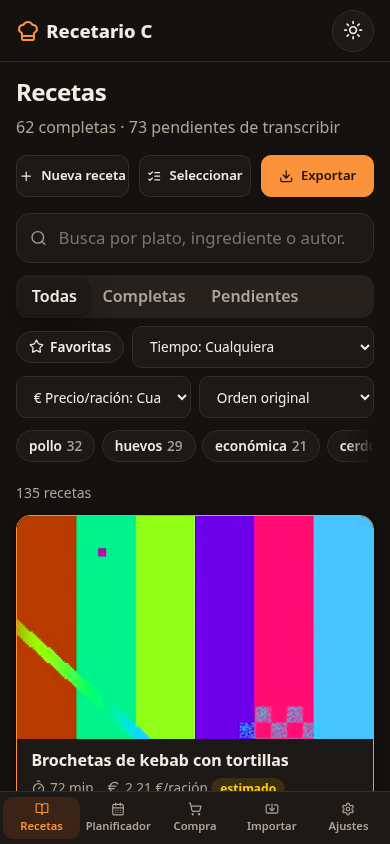
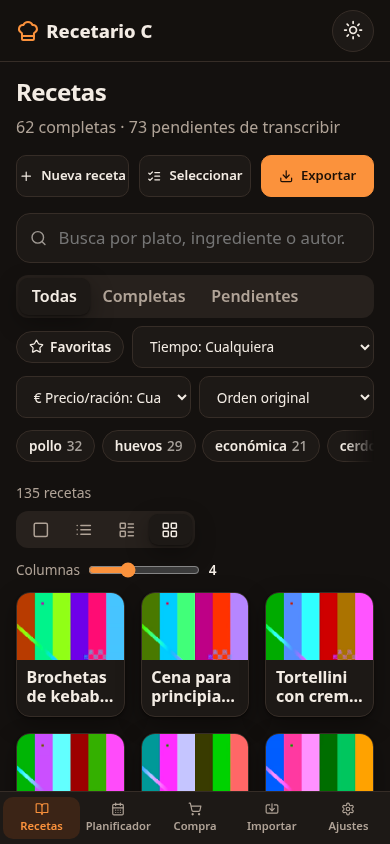
feat(ui): list view selector and source-aware 'Ver original' links

Changed region(s): [[0.0308, 0.5853, 0.9846, 0.955]]

diff --git a/static/assets/app.js b/static/assets/app.js
@@ -114,7 +114,7 @@ async function viewList() {
     </div>
     <div class="scroller" role="group" aria-label="${t("tags")}">${tags.map(x => `<button type="button" class="chip" data-tag="${esc(x.etiqueta)}" aria-pressed="${F.etiqueta === x.etiqueta}">${esc(x.etiqueta)} <span class="n">${x.total}</span></button>`).join("")}</div>
   </div>
-  <p class="muted small" id="count" aria-live="polite"></p>
+  <div class="listbar"><p class="muted small" id="count" aria-live="polite"></p>${viewPicker()}</div>
   <div id="results" class="grid"></div>
   <div id="selbar"></div>`;
   const reload = () => { sessionStorage.setItem("filtros", JSON.stringify(F)); loadResults(); };
@@ -127,29 +127,103 @@ async function viewList() {
   $("#ord").onchange = e => { F.orden = e.target.value; reload(); };
   $("#selBtn").onclick = () => { selecting = !selecting; if (!selecting) selected.clear(); $("#selBtn").setAttribute("aria-pressed", selecting); renderResults(); };
   $("#expBtn") && ($("#expBtn").onclick = () => exportDialog());
+  bindViewPicker();
   await loadResults();
+  API.prefsLista().then(p => { if (p && (p.vista !== VIEW.vista || p.densidad !== VIEW.densidad)) { setView(p, false); } }).catch(() => {});
 }
 async function loadResults() {
   lastResults = await API.recipes(F);
   renderResults();
 }
+/* ---- list view modes: una | info | detalle | cuadricula (+ density 2..8 columns) */
+const VIEWS = [["una", "Una sola", "square"], ["info", "Con info", "list"], ["detalle", "Muy detallado", "layout-list"], ["cuadricula", "Cuadrícula", "layout-grid"]];
+let VIEW = (() => { try { const v = JSON.parse(localStorage.getItem("vistaLista") || "null"); if (v && VIEWS.some(x => x[0] === v.vista)) return { vista: v.vista, densidad: Math.min(8, Math.max(2, +v.densidad || 4)) }; } catch {} return { vista: "cuadricula", densidad: 4 }; })();
+let viewSaveT;
+function viewPicker() {
+  return `<div class="viewpick"><div role="radiogroup" aria-label="Vista de la lista" class="seg vseg">${VIEWS.map(([v, l, i]) =>
+    `<button type="button" role="radio" data-view="${v}" aria-checked="${VIEW.vista === v}" tabindex="${VIEW.vista === v ? 0 : -1}" title="${l}">${ic(i)}<span class="vlabel">${l}</span></button>`).join("")}</div>
+    <label class="dens" ${VIEW.vista === "cuadricula" ? "" : "hidden"}><span>Columnas</span><input id="densR" type="range" min="2" max="8" step="1" value="${VIEW.densidad}" aria-valuetext="${VIEW.densidad} columnas"><output id="densO">${VIEW.densidad}</output></label></div>`;
+}
+function setView(p, save = true) {
+  VIEW = { vista: p.vista ?? VIEW.vista, densidad: p.densidad ?? VIEW.densidad };
+  localStorage.setItem("vistaLista", JSON.stringify(VIEW));
+  $$("[data-view]").forEach(b => { const on = b.dataset.view === VIEW.vista; b.setAttribute("aria-checked", on); b.tabIndex = on ? 0 : -1; });
+  const d = $(".dens"); if (d) d.hidden = VIEW.vista !== "cuadricula";
+  const r = $("#densR"); if (r) { r.value = VIEW.densidad; r.setAttribute("aria-valuetext", VIEW.densidad + " columnas"); $("#densO").textContent = VIEW.densidad; }
+  renderResults();
+  if (save) { clearTimeout(viewSaveT); viewSaveT = setTimeout(() => API.setPrefsLista(VIEW).catch(() => {}), 300); }
+}
+function bindViewPicker() {
+  const btns = $$("[data-view]");
+  btns.forEach((b, i) => {
+    b.onclick = () => setView({ vista: b.dataset.view });
+    b.onkeydown = e => {
+      const k = { ArrowRight: 1, ArrowDown: 1, ArrowLeft: -1, ArrowUp: -1 }[e.key];
+      let j = k ? (i + k + btns.length) % btns.length : e.key === "Home" ? 0 : e.key === "End" ? btns.length - 1 : -1;
+      if (j < 0) return; e.preventDefault(); setView({ vista: btns[j].dataset.view }); btns[j].focus();
+    };
+  });
+  const r = $("#densR"); if (r) r.oninput = () => setView({ densidad: +r.value });
+}
+const SRC_LABEL = { instagram: "Instagram", tiktok: "TikTok", youtube: "YouTube", pinterest: "Pinterest", facebook: "Facebook", x: "X", web: "la web" };
+const SRC_ICON = { instagram: "instagram", tiktok: "tiktok", youtube: "youtube", pinterest: "pinterest", facebook: "facebook", x: "x", web: "globe" };
+function sourceLink(r, cls = "") {
+  if (!r.source_url) return "";
+  const name = SRC_LABEL[r.source_type] || "la web";
+  return `<a class="srclink ${cls}" href="${esc(r.source_url)}" target="_blank" rel="noopener noreferrer" aria-label="Ver original en ${esc(name)} (se abre en otra pestaña)">${ic(SRC_ICON[r.source_type] || "link")}<span>Ver original</span></a>`;
+}
+const PHASES = [["Preparación", /\b(cort|pic|pel|mezcl|bat|ralla|lav|añad|sazon|prepar|amas|forma|monta|unt)/i], ["Reposo", /\b(repos|enfr|refriger|marin|dej[ae] (que )?(repos|enfri|levant)|congel|nevera)/i], ["Cocción", /\b(horne|horno|fr[ií]e|cuec|coce|cocin|sofr[ií]|saltea|dora|hierv|asa|gratin|tuesta|hornea|sart[eé]n|airfryer|freidora)/i]];
+function phaseTimes(r) {
+  const acc = {};
+  (r.pasos || []).forEach(p => { if (!p.minutos) return; const t = p.texto || ""; const f = (PHASES.find(([, rx]) => rx.test(t)) || ["Otros"])[0]; acc[f] = (acc[f] || 0) + p.minutos; });
+  return ["Preparación", "Cocción", "Reposo", "Otros"].filter(k => acc[k]).map(k => `${k} ${acc[k]} min`);
+}
+function mainIngredients(r, n = 5) {
+  return [...(r.ingredientes || [])].filter(i => i.nombre).sort((a, b) => (b.precio_eur || 0) - (a.precio_eur || 0)).slice(0, n).map(i => i.nombre);
+}
+const fdate = s => { const d = s ? new Date(s) : null; return d && !isNaN(d) ? d.toLocaleDateString("es-ES", { day: "numeric", month: "short", year: "numeric" }) : ""; };
 function card(r) {
-  const src = r.portada || r.media?.foto;
-  const img = src ? `<img src="${esc(src)}" alt="" loading="lazy" onerror="this.remove()">` : "";
+  if (VIEW.vista === "una") return cardWide(r, false);
+  if (VIEW.vista === "info") return cardInfo(r);
+  if (VIEW.vista === "detalle") return cardWide(r, true);
+  return cardGrid(r);
+}
+function selBox(r) { return selecting ? `<input type="checkbox" class="sel" data-sel="${r.id}" aria-label="Seleccionar ${esc(r.titulo)}" ${selected.has(r.id) ? "checked" : ""}>` : ""; }
+function thumbHtml(r) { const src = r.portada || r.media?.foto; return `<div class="thumb" aria-hidden="true">${placeholder(r)}${src ? `<img src="${esc(src)}" alt="" loading="lazy" onerror="this.remove()">` : ""}</div>`; }
+function cardGrid(r) {
+  return `<article class="card vgrid ${r.estado !== "completa" ? "pending" : ""}">${selBox(r)}${r.favorito ? `<span class="fav">${ic("star", "Favorita", "fill")}</span>` : ""}
+    <a href="#/receta/${r.id}" class="cardlink">${thumbHtml(r)}<div class="body"><h3>${esc(r.titulo)}</h3></div></a></article>`;
+}
+function cardInfo(r) {
   const pend = r.estado !== "completa";
-  return `<article class="card ${pend ? "pending" : ""}">
-    ${selecting ? `<input type="checkbox" class="sel" data-sel="${r.id}" aria-label="Seleccionar ${esc(r.titulo)}" ${selected.has(r.id) ? "checked" : ""}>` : ""}
-    ${r.favorito ? `<span class="fav">${ic("star", "Favorita", "fill")}</span>` : ""}
-    <a href="#/receta/${r.id}" style="color:inherit;text-decoration:none;display:flex;flex-direction:column;flex:1">
-      <div class="thumb" aria-hidden="true">${placeholder(r)}${img}</div>
-      <div class="body">
-        <h3>${esc(r.titulo)}</h3>
-        <div class="meta">${pend ? `<span class="badge pend">Pendiente de transcribir</span>` : `
-          ${r.tiempo_total_min ? `<span>${ic("timer")} ${r.tiempo_total_min} min</span>` : ""}
-          ${r.precio_racion_eur != null ? `<span>${ic("euro")} ${eur(r.precio_racion_eur)}/ración <span class="badge est">${t("est")}</span></span>` : ""}`}
-        </div>
-        <div class="meta"><span>${esc(r.autor || "")}</span>${r.valoracion ? `<span class="stars-ro">${ic("star", r.valoracion + " de 5 estrellas", "fill")}${r.valoracion}</span>` : ""}${r.media?.video ? `<span>${ic("film", "Con vídeo")}</span>` : ""}</div>
-      </div></a></article>`;
+  const bits = pend ? [`<span class="badge pend">Pendiente de transcribir</span>`] : [
+    r.tiempo_total_min ? `<span>${ic("timer")} ${r.tiempo_total_min} min</span>` : "",
+    r.raciones ? `<span>${ic("users")} ${r.raciones} rac.</span>` : "",
+    r.precio_racion_eur != null ? `<span>${ic("euro")} ${eur(r.precio_racion_eur)}/rac. <span class="badge est">${t("est")}</span></span>` : ""].filter(Boolean);
+  return `<article class="card vinfo ${pend ? "pending" : ""}">${selBox(r)}
+    <a href="#/receta/${r.id}" class="cardlink">${thumbHtml(r)}<div class="body"><h3>${esc(r.titulo)}${r.favorito ? ` ${ic("star", "Favorita", "fill")}` : ""}</h3>${bits.length ? `<div class="meta">${bits.join("")}</div>` : ""}</div></a></article>`;
+}
+function cardWide(r, detailed) {
+  const pend = r.estado !== "completa";
+  const meta = pend ? [`<span class="badge pend">Pendiente de transcribir</span>`] : [
+    r.tiempo_total_min ? `<span>${ic("timer")} ${r.tiempo_total_min} min</span>` : "",
+    r.raciones ? `<span>${ic("users")} ${r.raciones} raciones</span>` : "",
+    r.precio_racion_eur != null ? `<span>${ic("euro")} ${eur(r.precio_racion_eur)}/ración <span class="badge est">${t("est")}</span></span>` : ""].filter(Boolean);
+  let extra = "";
+  if (detailed) {
+    const ings = mainIngredients(r), ph = phaseTimes(r), tags = r.etiquetas || [], fecha = fdate(r.creado);
+    const rows = [
+      ings.length ? `<div><dt>Ingredientes principales</dt><dd>${ings.map(esc).join(", ")}</dd></div>` : "",
+      ph.length ? `<div><dt>Tiempo por fase</dt><dd>${ph.join(" · ")}</dd></div>` : "",
+      r.precio_total_eur != null || r.precio_racion_eur != null ? `<div><dt>Coste estimado</dt><dd>${[r.precio_total_eur != null ? `${eur(r.precio_total_eur)} total` : "", r.precio_racion_eur != null ? `${eur(r.precio_racion_eur)}/ración` : ""].filter(Boolean).join(" · ")}</dd></div>` : "",
+      r.autor ? `<div><dt>Fuente</dt><dd>${esc(r.autor)}</dd></div>` : "",
+      fecha ? `<div><dt>Añadida</dt><dd>${fecha}</dd></div>` : ""].filter(Boolean);
+    extra = (rows.length ? `<dl class="facts">${rows.join("")}</dl>` : "") + (tags.length ? `<div class="tags">${tags.map(x => `<span class="chip small">${esc(x)}</span>`).join("")}</div>` : "");
+  }
+  return `<article class="card ${detailed ? "vdet" : "vuna"} ${pend ? "pending" : ""}">${selBox(r)}${r.favorito ? `<span class="fav">${ic("star", "Favorita", "fill")}</span>` : ""}
+    <a href="#/receta/${r.id}" class="cardlink">${thumbHtml(r)}<div class="body"><h3>${esc(r.titulo)}</h3>
+      ${meta.length ? `<div class="meta">${meta.join("")}</div>` : ""}${!detailed && r.autor ? `<div class="meta"><span>${esc(r.autor)}</span></div>` : ""}${extra}</div></a>
+    ${detailed && r.source_url ? `<div class="cardfoot">${sourceLink(r)}</div>` : ""}</article>`;
 }
 function renderResults() {
   const box = $("#results"); if (!box) return;
@@ -159,6 +233,7 @@ function renderResults() {
       <button class="btn" type="button" id="clearF">${t("clear")}</button></div>`;
     $("#clearF").onclick = () => { Object.assign(F, { q: "", estado: "", favoritos: false, etiqueta: "", max_min: "", max_precio: "" }); sessionStorage.removeItem("filtros"); viewList(); };
   } else box.innerHTML = lastResults.map(card).join("");
+  box.className = `grid v-${VIEW.vista}`; box.style.setProperty("--cols", VIEW.densidad);
   $$("[data-sel]").forEach(c => c.onchange = () => { const id = +c.dataset.sel; c.checked ? selected.add(id) : selected.delete(id); renderSelbar(); });
   renderSelbar();
 }
@@ -207,8 +282,8 @@ function exportDialog(pre) {
 
 /* =========================================================== DETAIL */
 function videoFrame(r) {
-  const ig = r.video_url || (r.shortcode ? `https://www.instagram.com/reel/${r.shortcode}/` : "");
-  const link = ig ? `<p class="iglink"><a href="${esc(ig)}" target="_blank" rel="noopener">Ver publicación original en Instagram ${ic("external-link")}</a></p>` : "";
+  const sl = sourceLink(r);
+  const link = sl ? `<p class="iglink">${sl}</p>` : "";
   if (r.media?.video) return `<div class="vf"><video src="${esc(r.media.video)}" controls playsinline preload="metadata" ${r.portada ? `poster="${esc(r.portada)}"` : ""}></video></div>${link}`;
   const code = r.shortcode;
   if (!code || API.STATIC) return (r.media?.foto ? `<img class="photo" src="${esc(r.media.foto)}" alt="">` : "") + link;

diff --git a/static/assets/style.css b/static/assets/style.css
@@ -245,7 +245,7 @@ main:focus,main:focus-visible{outline:none}
 .vf{aspect-ratio:9/16;max-height:72vh;width:auto;max-width:100%}
 .vf.wide{width:100%}
 .vf video{width:100%;height:100%;max-height:none;object-fit:contain}
-.iglink{text-align:center;margin:.7rem 0 0;font-weight:600}
+.iglink{text-align:right;margin:.4rem 0 0}
 /* login */
 .login{max-width:420px;margin:6vh auto 2rem}
 .login .panel{padding:1.8rem}
@@ -363,3 +363,44 @@ main:focus,main:focus-visible{outline:none}
 .acc-list .qr img{background:#fff;padding:6px;border-radius:8px;border:1px solid var(--line)}
 .warn{display:flex;gap:.4rem;align-items:flex-start;color:var(--warn,#9a5b00)}
 [data-theme=dark] .warn{color:#f0b35a}
+
+/* ---- list view modes */
+.listbar{display:flex;flex-wrap:wrap;align-items:center;justify-content:space-between;gap:.5rem;margin:.25rem 0 .75rem}
+.listbar #count{margin:0}
+.viewpick{display:flex;flex-wrap:wrap;align-items:center;gap:.75rem}
+.vseg button{display:inline-flex;align-items:center;gap:.35rem}
+.vseg button[aria-checked=true]{background:var(--surface);color:var(--text);box-shadow:var(--shadow)}
+.vseg button:focus-visible{box-shadow:var(--focus)}
+.dens{display:inline-flex;align-items:center;gap:.4rem;font-size:.85rem;color:var(--muted)}
+.dens[hidden]{display:none}
+.dens input{accent-color:var(--accent);width:7rem}
+.dens output{min-width:1ch;font-weight:600;color:var(--text)}
+@media(max-width:640px){.vlabel{position:absolute;width:1px;height:1px;overflow:hidden;clip:rect(0 0 0 0)}}
+.cardlink{color:inherit;text-decoration:none;display:flex;flex-direction:column;flex:1;min-width:0}
+.grid.v-cuadricula{grid-template-columns:repeat(var(--cols,4),minmax(0,1fr))}
+.v-cuadricula .card .body{padding:.5rem .6rem .65rem}
+.v-cuadricula .card h3{font-size:clamp(.78rem,calc(1.25rem - var(--cols)*.06rem),1rem)}
+@media(max-width:640px){.grid.v-cuadricula{grid-template-columns:repeat(min(var(--cols,4),3),minmax(0,1fr))}}
+.grid.v-una{grid-template-columns:minmax(0,640px);justify-content:center}
+.v-una .card .thumb{aspect-ratio:4/5}
+.v-una .card h3{font-size:1.3rem}
+.grid.v-info{grid-template-columns:1fr;gap:.5rem}
+.v-info .cardlink{flex-direction:row;align-items:center}
+.v-info .card .thumb{width:84px;min-width:84px;aspect-ratio:1;border-radius:calc(var(--radius) - 4px);margin:.45rem}
+.v-info .card .body{padding:.45rem .8rem .45rem .2rem;gap:.25rem}
+.v-info .card h3{-webkit-line-clamp:1}
+.v-info .card:hover{transform:none}
+.grid.v-detalle{grid-template-columns:1fr}
+.v-detalle .cardlink{flex-direction:row}
+.v-detalle .card .thumb{width:220px;min-width:220px;aspect-ratio:3/4}
+.v-detalle .card h3{font-size:1.15rem}
+.v-detalle .card:hover{transform:none}
+.facts{display:grid;grid-template-columns:repeat(auto-fit,minmax(200px,1fr));gap:.35rem 1rem;margin:.25rem 0 0;font-size:.88rem}
+.facts dt{font-size:.75rem;color:var(--muted);text-transform:uppercase;letter-spacing:.03em}
+.facts dd{margin:0}
+.card .tags{display:flex;flex-wrap:wrap;gap:.3rem}
+.cardfoot{padding:0 .9rem .7rem;display:flex;justify-content:flex-end}
+@media(max-width:640px){.v-detalle .cardlink{flex-direction:column}.v-detalle .card .thumb{width:auto;min-width:0;aspect-ratio:16/10}}
+.srclink{display:inline-flex;align-items:center;gap:.3rem;font-size:.8rem;color:var(--muted);text-decoration:none;border-radius:6px;padding:.1rem .25rem}
+.srclink:hover{color:var(--accent);text-decoration:underline}
+.srclink .ic{width:14px;height:14px}

diff --git a/static/assets/icons.js b/static/assets/icons.js
@@ -75,7 +75,17 @@ const ICONS = {
   "loader": "<path d=\"M12 2v4\"/> <path d=\"m16.2 7.8 2.9-2.9\"/> <path d=\"M18 12h4\"/> <path d=\"m16.2 16.2 2.9 2.9\"/> <path d=\"M12 18v4\"/> <path d=\"m4.9 19.1 2.9-2.9\"/> <path d=\"M2 12h4\"/> <path d=\"m4.9 4.9 2.9 2.9\"/>",
   "file-pen": "<path d=\"M12.5 22H18a2 2 0 0 0 2-2V7l-5-5H6a2 2 0 0 0-2 2v9.5\"/> <path d=\"M14 2v4a2 2 0 0 0 2 2h4\"/> <path d=\"M13.378 15.626a1 1 0 1 0-3.004-3.004l-5.01 5.012a2 2 0 0 0-.506.854l-.837 2.87a.5.5 0 0 0 .62.62l2.87-.837a2 2 0 0 0 .854-.506z\"/>",
   "video": "<path d=\"m16 13 5.223 3.482a.5.5 0 0 0 .777-.416V7.87a.5.5 0 0 0-.752-.432L16 10.5\"/> <rect x=\"2\" y=\"6\" width=\"14\" height=\"12\" rx=\"2\"/>",
-  "wifi": "<path d=\"M12 20h.01\"/> <path d=\"M2 8.82a15 15 0 0 1 20 0\"/> <path d=\"M5 12.859a10 10 0 0 1 14 0\"/> <path d=\"M8.5 16.429a5 5 0 0 1 7 0\"/>"
+  "wifi": "<path d=\"M12 20h.01\"/> <path d=\"M2 8.82a15 15 0 0 1 20 0\"/> <path d=\"M5 12.859a10 10 0 0 1 14 0\"/> <path d=\"M8.5 16.429a5 5 0 0 1 7 0\"/>",
+  "square": "<rect width=\"18\" height=\"18\" x=\"3\" y=\"3\" rx=\"2\"/>",
+  "list": "<path d=\"M3 12h.01\"/><path d=\"M3 18h.01\"/><path d=\"M3 6h.01\"/><path d=\"M8 12h13\"/><path d=\"M8 18h13\"/><path d=\"M8 6h13\"/>",
+  "layout-grid": "<rect width=\"7\" height=\"7\" x=\"3\" y=\"3\" rx=\"1\"/><rect width=\"7\" height=\"7\" x=\"14\" y=\"3\" rx=\"1\"/><rect width=\"7\" height=\"7\" x=\"14\" y=\"14\" rx=\"1\"/><rect width=\"7\" height=\"7\" x=\"3\" y=\"14\" rx=\"1\"/>",
+  "users": "<path d=\"M16 21v-2a4 4 0 0 0-4-4H6a4 4 0 0 0-4 4v2\"/><circle cx=\"9\" cy=\"7\" r=\"4\"/><path d=\"M22 21v-2a4 4 0 0 0-3-3.87\"/><path d=\"M16 3.13a4 4 0 0 1 3 3.87\"/>",
+  "link": "<path d=\"M10 13a5 5 0 0 0 7.54.54l3-3a5 5 0 0 0-7.07-7.07l-1.72 1.71\"/><path d=\"M14 11a5 5 0 0 0-7.54-.54l-3 3a5 5 0 0 0 7.07 7.07l1.71-1.71\"/>",
+  "globe": "<circle cx=\"12\" cy=\"12\" r=\"10\"/><path d=\"M12 2a14.5 14.5 0 0 0 0 20 14.5 14.5 0 0 0 0-20\"/><path d=\"M2 12h20\"/>",
+  "youtube": "<path d=\"M2.5 17a24.12 24.12 0 0 1 0-10 2 2 0 0 1 1.4-1.4 49.56 49.56 0 0 1 16.2 0A2 2 0 0 1 21.5 7a24.12 24.12 0 0 1 0 10 2 2 0 0 1-1.4 1.4 49.55 49.55 0 0 1-16.2 0A2 2 0 0 1 2.5 17\"/><path d=\"m10 15 5-3-5-3z\"/>",
+  "facebook": "<path d=\"M18 2h-3a5 5 0 0 0-5 5v3H7v4h3v8h4v-8h3l1-4h-4V7a1 1 0 0 1 1-1h3z\"/>",
+  "tiktok": "<path d=\"M9 12a4 4 0 1 0 4 4V3c.5 2.5 2.5 4.5 5 5\"/>",
+  "pinterest": "<circle cx=\"12\" cy=\"12\" r=\"10\"/><path d=\"m11 8-3 13\"/><path d=\"M9.5 14.5c3 1 6.5-1 6.5-4.5a4 4 0 0 0-8 0c0 .8.2 1.5.5 2\"/>"
 };
 function ic(name, label = "", cls = "") {
   const a = label ? `role="img" aria-label="${String(label).replace(/"/g, "&quot;")}"` : `aria-hidden="true" focusable="false"`;

diff --git a/static/assets/api.js b/static/assets/api.js
@@ -91,6 +91,8 @@
       async logout() { await req("POST", "/api/auth/logout"); csrf = ""; },
     },
     scale: (id, raciones) => req("GET", `/api/recipes/${id}/escalar?raciones=${raciones}`),
+    prefsLista: () => STATIC ? Promise.resolve(null) : req("GET", "/api/preferencias/lista"),
+    setPrefsLista: p => STATIC ? Promise.resolve(p) : req("PUT", "/api/preferencias/lista", p),
     acceso: () => req("GET", "/api/acceso"),
     accesoRed: (host, port) => req("PUT", "/api/acceso/red", { host, port }),
     estado: refrescar => req("GET", "/api/estado" + (refrescar ? "?refrescar=true" : "")),

diff --git a/scripts/screenshots.py b/scripts/screenshots.py
@@ -39,6 +39,10 @@ def main():
                 csrf = pg.evaluate("fetch('/api/auth/me').then(r => r.json()).then(m => m.csrf)")
                 H = {"X-CSRF-Token": csrf}
                 pg.goto(f"{a.base}/#/recetas"); pg.wait_for_selector(".card"); pg.wait_for_timeout(300); shot("lista")
+                for mode in ("una", "info", "detalle", "cuadricula"):
+                    pg.click(f'[data-view="{mode}"]'); pg.wait_for_timeout(500); shot(f"lista-{mode}")
+                pg.fill("#densR", "6"); pg.dispatch_event("#densR", "input"); pg.wait_for_timeout(500); shot("lista-cuadricula-densa")
+                pg.fill("#densR", "4"); pg.dispatch_event("#densR", "input"); pg.wait_for_timeout(500)
                 pg.goto(f"{a.base}/#/receta/{a.recipe}"); pg.wait_for_selector(".ings li"); pg.wait_for_timeout(500); shot("detalle")
                 pg.goto(f"{a.base}/#/recetas"); pg.wait_for_selector(".card")
                 pg.click("#expBtn"); pg.wait_for_selector("dialog[open]"); pg.wait_for_timeout(200); shot("exportar")

diff --git a/CHANGELOG.md b/CHANGELOG.md
@@ -5,6 +5,8 @@ Formato basado en [Keep a Changelog](https://keepachangelog.com/es-ES/1.1.0/); v
 ## [2.1.0] — 2026-10-30 — Fase 2
 
 ### Añadido
+- **Selector de vista** en la lista de recetas: *Una sola*, *Con info*, *Muy detallado* y *Cuadrícula* (con control de columnas 2–8). Accesible con teclado (flechas, Inicio/Fin). La elección se guarda por usuario en el servidor (`GET/PUT /api/preferencias/lista`) con respaldo en `localStorage`.
+- Enlace discreto **«Ver original»** en cada receta con origen (Instagram, TikTok, YouTube, web…), con icono de la fuente, debajo del reproductor y en la vista *Muy detallado*. Nuevos campos `source_url` y `source_type` en la API, la API v1, MCP y todas las exportaciones (en el JSON v1 se añaden sin cambiar el resto del formato).
 - **Inicio de sesión web** con un único administrador (argon2), cookie de sesión, protección CSRF y freno a fuerza bruta.
   Primer arranque con **código de configuración** (registro del servidor / `setup-code.txt`) o `python -m app.cli create-admin`.
 - **Lista de la compra** completa: varias listas, pasillos ordenables, agregado de ingredientes con conversión de unidades,
@@ -30,6 +32,8 @@ Formato basado en [Keep a Changelog](https://keepachangelog.com/es-ES/1.1.0/); v
 - Crear recetas por la API v1 valida que tengan ingredientes y pasos (salvo las de «solo vídeo»).
 
 ### Corregido
+- Los iconos SVG anidados se tragaban el texto que les seguía (p. ej. avisos y títulos de Ajustes).
+- Desbordamiento horizontal de Ajustes en móvil.
 - `build_static.py` en Windows: consola UTF‑8, cierre de SQLite antes de borrar la carpeta temporal y borrado de
   archivos de solo lectura; los tests muestran la salida del subproceso si falla.
 - Lista de la compra: «repollo» ya no cae en Carne, «huevos L» / «huevos grandes» se agrupan con «huevos»,

diff --git a/README.md b/README.md
@@ -13,6 +13,8 @@ temporizadores, modo cocina, importador de Instagram, lista de la compra, planif
 | **Entrar** | **Importar** | **Ajustes → Estado** |
 | ![](docs/screenshots/login-light-desktop.png) | ![](docs/screenshots/importar-dark-desktop.png) | ![](docs/screenshots/estado-light-desktop.png) |
 
+Vistas de la lista: `lista-una`, `lista-info`, `lista-detalle`, `lista-cuadricula`, `lista-cuadricula-densa`.
+
 Todas las capturas (claro/oscuro, 1440×900 y 390×844): `docs/screenshots/`.
 
 ## Arranque rápido
@@ -122,7 +124,7 @@ python scripts/build_static.py      # → dist/ (solo lectura, sin vídeos, mini
 
 ```bash
 pip install -r requirements-dev.txt && python -m playwright install chromium
-python -m pytest                                    # 129 tests (Instagram con proveedor mock)
+python -m pytest                                    # 147 tests (Instagram con proveedor mock)
 python run.py --mock-instagram --port 8088 &
 python scripts/screenshots.py --base http://127.0.0.1:8088
 ```
